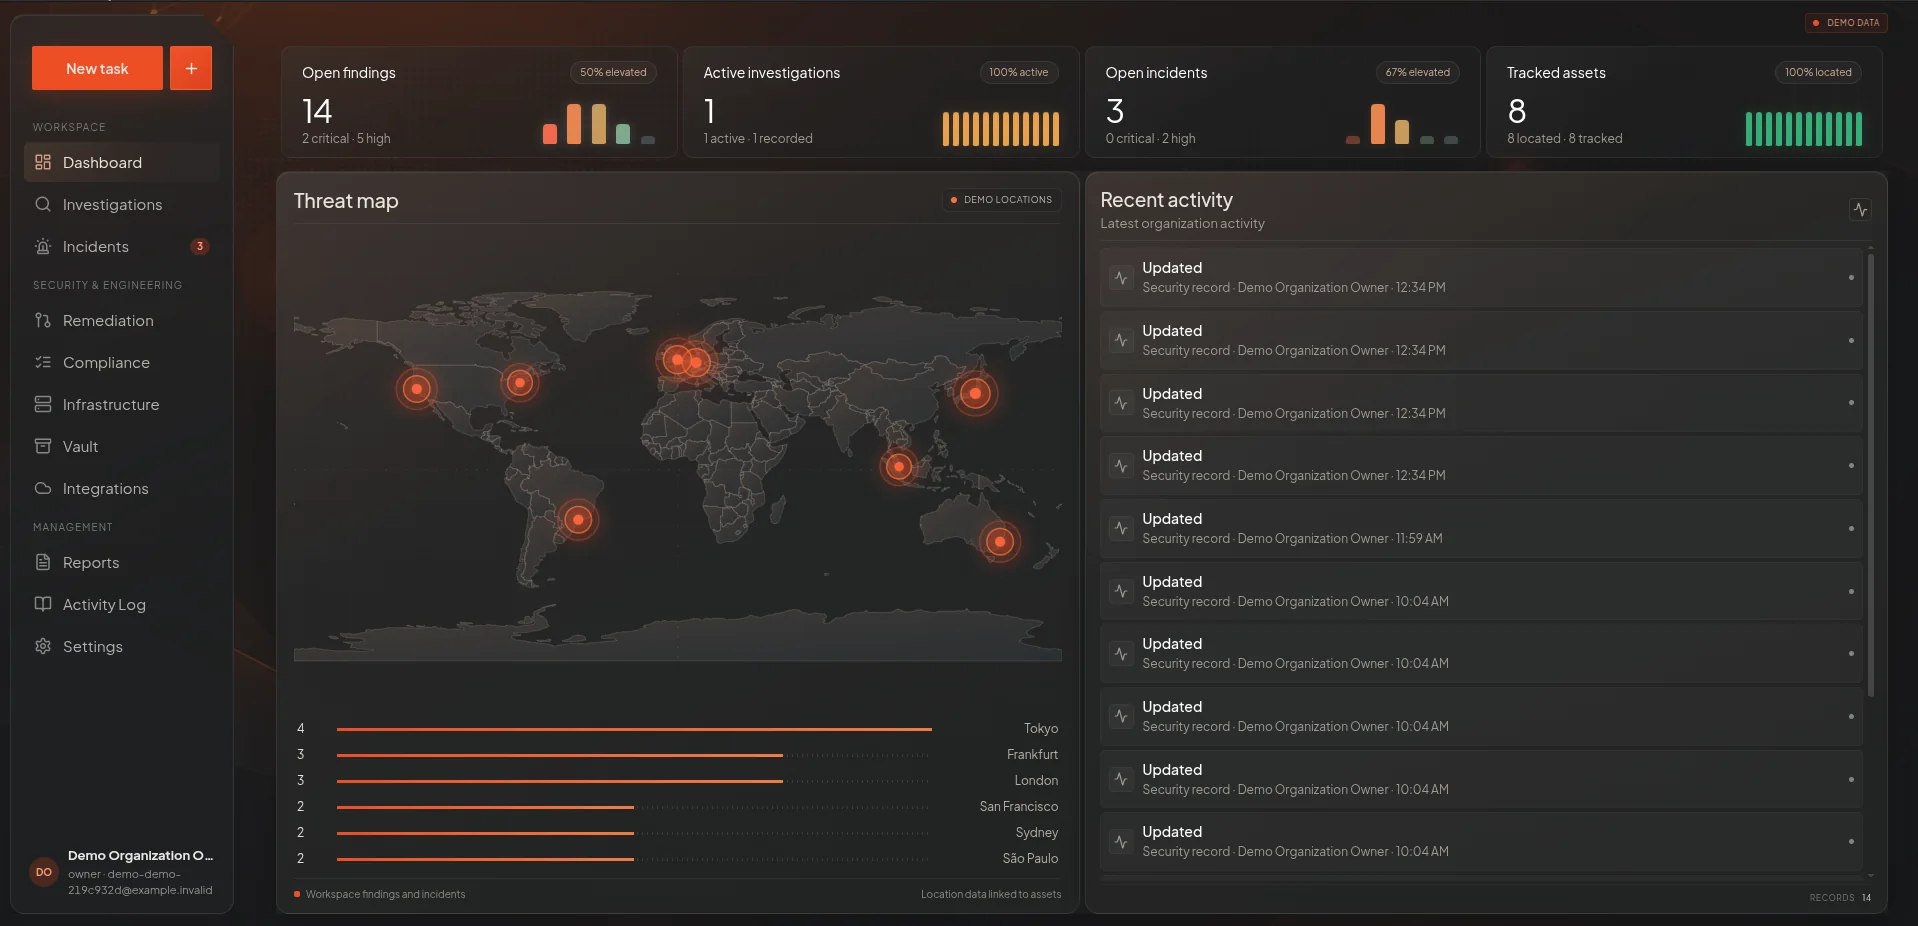
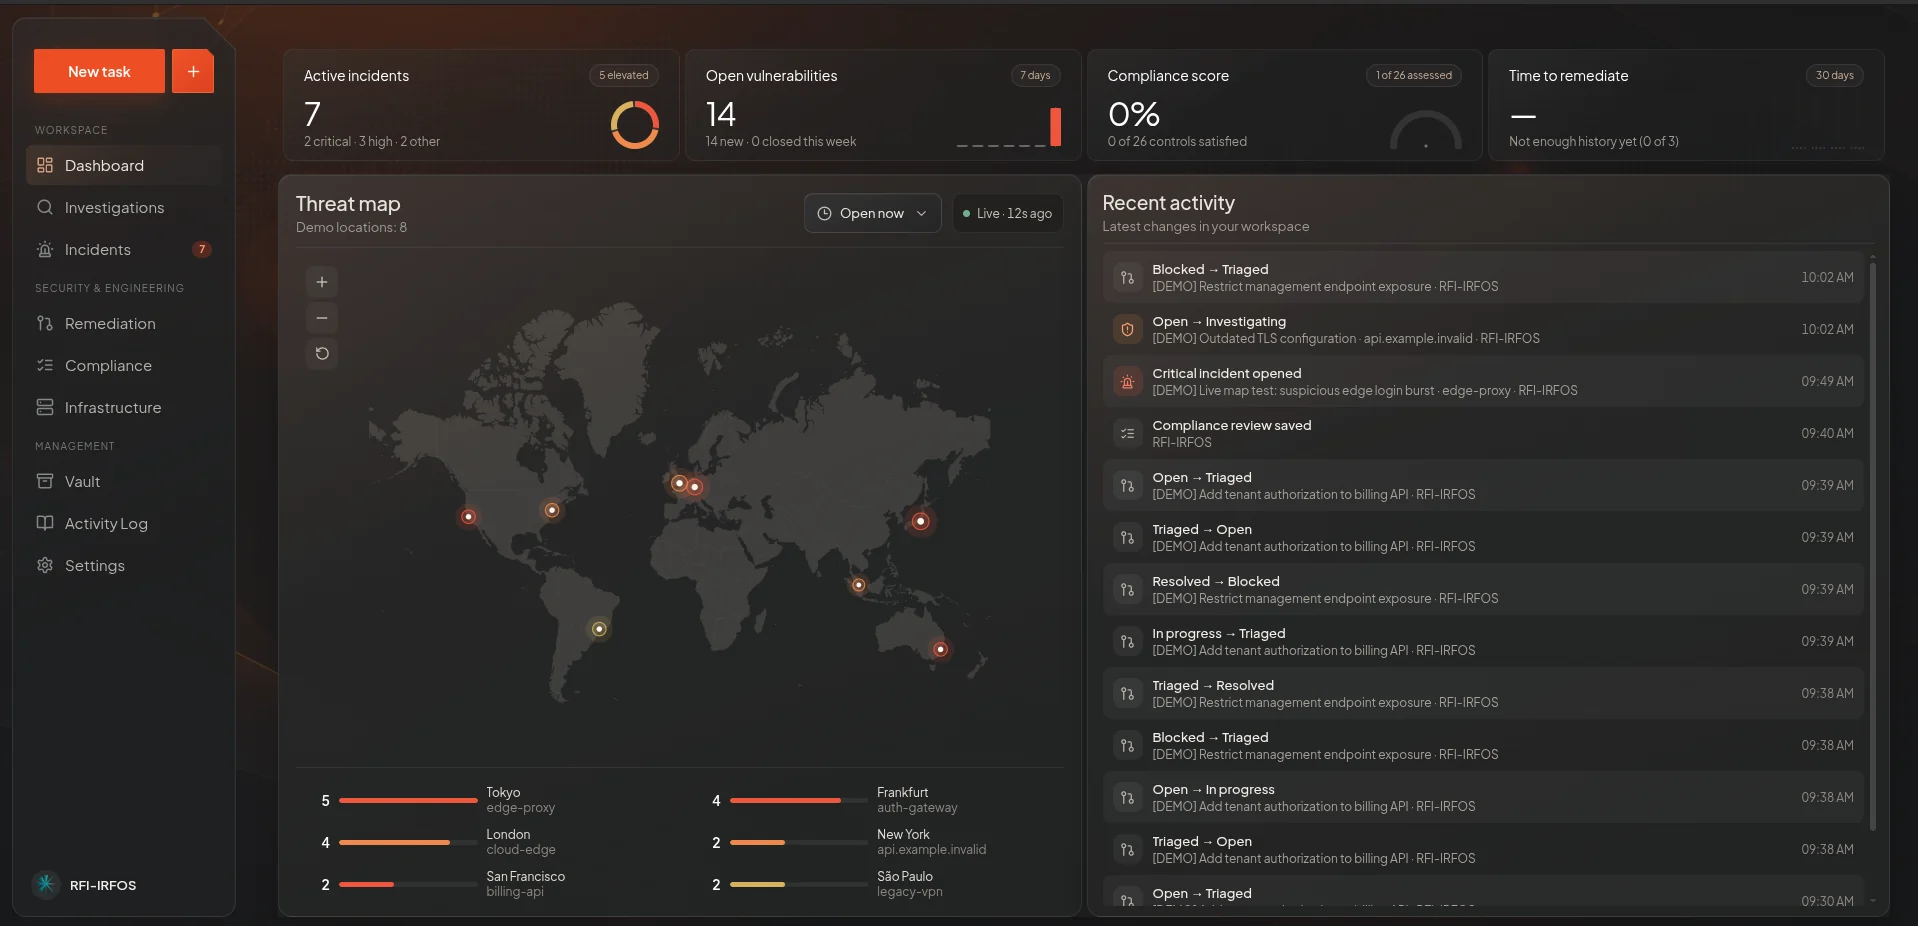
SEO-Feinschliff und frisches Portal-Foto
- 404-Antworten tragen X-Robots-Tag: noindex (GSC listete /Das)
- DE-Titel der Domain-Security-Test-Seite unterscheidet sich vom EN-Titel
- Login-Vorschau zeigt das aktuelle SOC-Dashboard

Claude-Session: https://claude.ai/code/session_01G1Da2Q7jLj5HpkDBowyaF3

diff --git a/frontend/src/components/landingPages.ts b/frontend/src/components/landingPages.ts
@@ -983,7 +983,7 @@ export const LANDING: Record<LandingSlug, Record<LandingLocale, LandingDoc>> = {
       ],
     },
     de: {
-      title: 'Domain Security Test: DNS, TLS, E-Mail · RFI-IRFOS',
+      title: 'Domain Security Test: DNS, TLS und E-Mail prüfen · RFI-IRFOS',
       description: 'Externer, lesender Test Ihrer Domain: DNS, Zertifikate, E-Mail-Schutz und Security-Header. Ein Mensch prüft jeden Befund. Schriftlicher Bericht.',
       label: 'Domain Security Test',
       h1: 'Domain Security Test für Ihre Domain',

diff --git a/backend/src/main.rs b/backend/src/main.rs
@@ -11,7 +11,7 @@ mod worldmodel;
 
 use axum::{
     extract::{Request, State},
-    http::{header, HeaderName, HeaderValue, Method},
+    http::{header, HeaderName, HeaderValue, Method, StatusCode},
     middleware::{self, Next},
     response::{IntoResponse, Redirect, Response},
     routing::{get, post}, Router,
@@ -132,6 +132,14 @@ async fn set_cache_control(req: Request, next: Next) -> Response {
 
     res.headers_mut()
         .insert(header::CACHE_CONTROL, HeaderValue::from_static(cache_value));
+
+    // Unknown paths get the SPA shell with status 404, and that shell carries
+    // "index, follow" plus a canonical to the homepage. Lynx audit 2026-11-12
+    // (GSC listed /Das as 404): the header tells crawlers not to index it.
+    if res.status() == StatusCode::NOT_FOUND {
+        res.headers_mut()
+            .insert("x-robots-tag", HeaderValue::from_static("noindex"));
+    }
     res
 }
 
